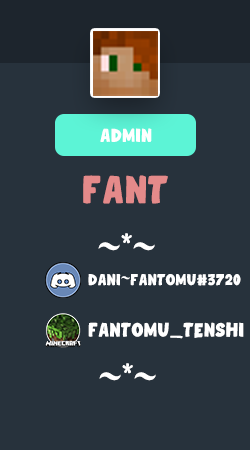
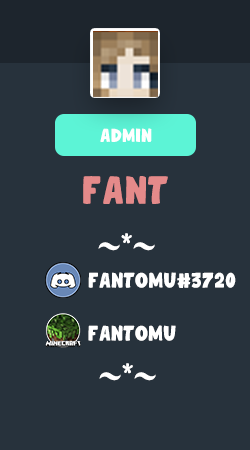
Bug Fixes

diff --git a/staffpositions.html b/staffpositions.html
@@ -119,7 +119,7 @@
         <div class="zoom">
         <div class="col-sm-4 team-member">
                     <a href="">
-            <img src="assets/images/staffben.png">
+            <img src="assets/images/staffsheik.png">
             </a>
         </div>
         </div>
@@ -163,7 +163,8 @@
             </a>
         </div>
         </div>
-        
+    </div>
+    </div>
 <!--team-section--->
 <!-- Footer
   ================================================== -->
